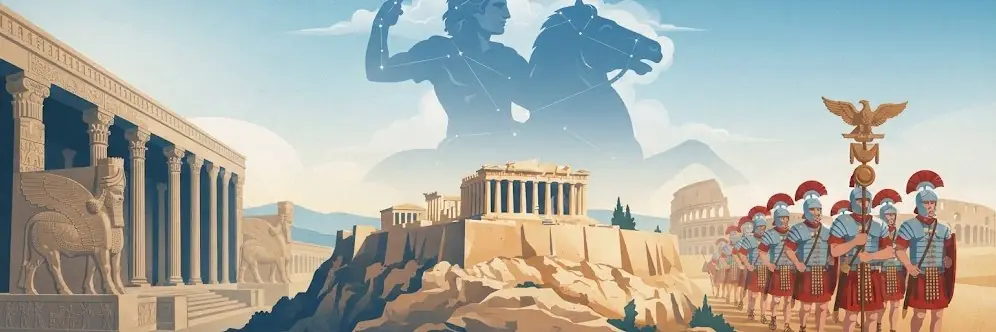
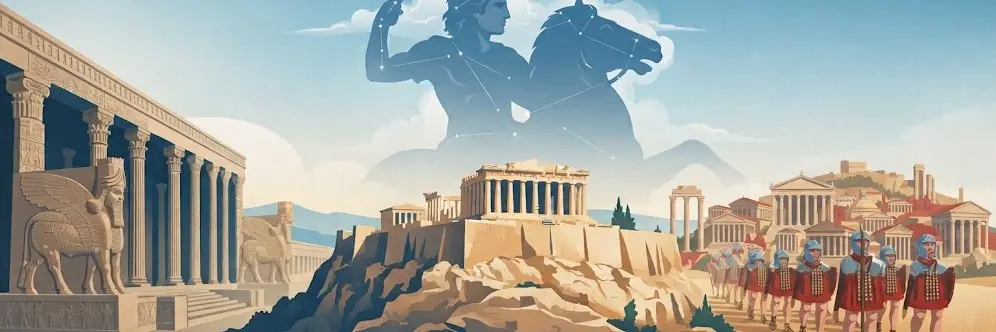
Capítulo ant4: Foro en lugar del Coliseo
Claude-Session: https://claude.ai/code/session_01V9xa97nQMEEdECz83CmCea

diff --git a/sw.js b/sw.js
@@ -1,5 +1,5 @@
 // HistoKHB — service worker: la app abre sin conexión con lo ya visto.
-const V='hk-v152';
+const V='hk-v153';
 const SHELL=['./','index.html','manifest.json','datos/indice.json','img/icono-192.png'];
 self.addEventListener('install',e=>{e.waitUntil(caches.open(V).then(c=>c.addAll(SHELL)).then(()=>self.skipWaiting()));});
 self.addEventListener('activate',e=>{e.waitUntil(caches.keys().then(ks=>Promise.all(ks.filter(k=>k!==V).map(k=>caches.delete(k)))).then(()=>self.clients.claim()));});
